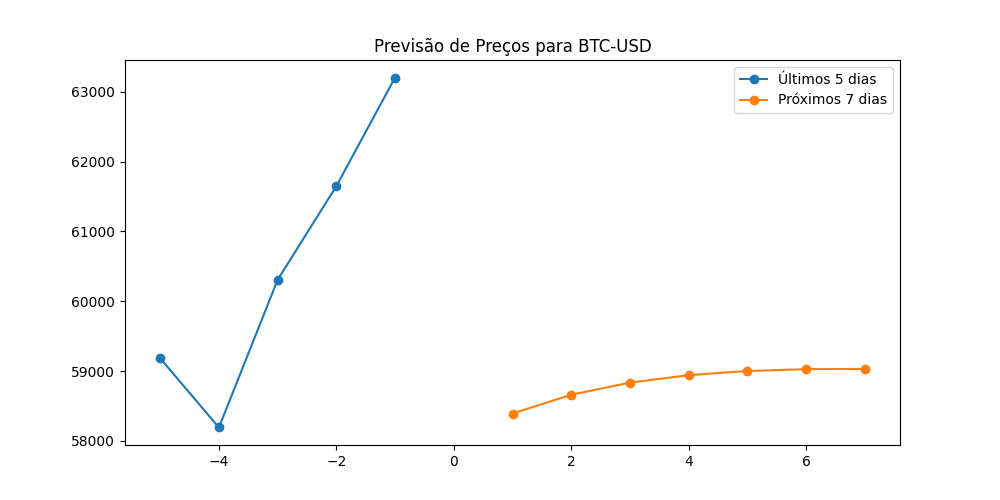
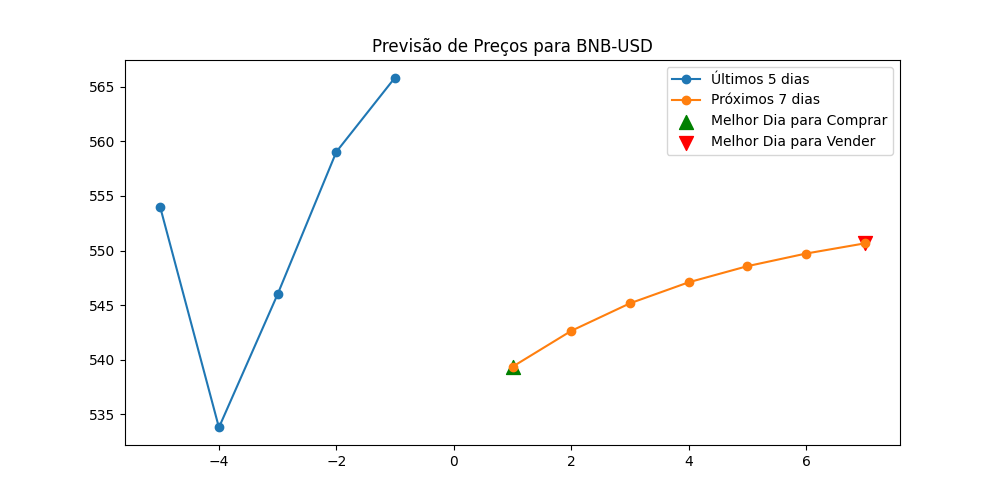
add marcadores no gráfico para mostrar quando se deve comprar e quando se deve vender

diff --git a/src/backend/main.py b/src/backend/main.py
@@ -29,12 +29,23 @@ async def post_predict(request: CryptoRequest):
     crypto = request.crypto
     future_predictions, real_last_5_days = predict_crypto(crypto)
 
+    # Encontrando o melhor dia para comprar e vender
+    best_day_buy = np.argmin(future_predictions) + 1  # Melhor dia para comprar (menor valor)
+    best_day_sell = np.argmax(future_predictions) + 1  # Melhor dia para vender (maior valor)
+
     # Plota o gráfico e salva na pasta estática do Next.js
     plt.figure(figsize=(10, 5))
-    days_real = np.arange(-5, 0)
-    days_future = np.arange(1, 8)
+    days_real = np.arange(-5, 0)  # Últimos 5 dias
+    days_future = np.arange(1, 8)  # Próximos 7 dias
+
     plt.plot(days_real, real_last_5_days, label='Últimos 5 dias', marker='o')
     plt.plot(days_future, future_predictions, label='Próximos 7 dias', marker='o')
+
+    # Destacar o melhor dia para comprar e vender
+    plt.scatter(best_day_buy, future_predictions[best_day_buy - 1], color='green', label='Melhor Dia para Comprar', marker='^', s=100)
+    plt.scatter(best_day_sell, future_predictions[best_day_sell - 1], color='red', label='Melhor Dia para Vender', marker='v', s=100)
+
+    # Configuração do gráfico
     plt.title(f'Previsão de Preços para {crypto}')
     plt.legend()
 
@@ -48,87 +59,3 @@ async def post_predict(request: CryptoRequest):
     predictions = [f"Dia {i+1}: Previsão de fechamento: {float(price):.2f}" for i, price in enumerate(future_predictions)]
 
     return {"imageUrl": "/prediction_plot.png", "predictions": predictions}
-
-
-
-
-
-# from fastapi import FastAPI, Request, Form
-# from fastapi.responses import HTMLResponse
-# from fastapi.templating import Jinja2Templates
-# import yfinance as yf
-# import matplotlib.pyplot as plt
-# import numpy as np
-# from model import predict_crypto
-# from fastapi.middleware.cors import CORSMiddleware
-
-# app = FastAPI()
-# # templates = Jinja2Templates(directory="../frontend/templates")
-
-# # Configuração de CORS
-# app.add_middleware(
-#     CORSMiddleware,
-#     allow_origins=["http://localhost:3000"],  # Domínio do Next.js
-#     allow_credentials=True,
-#     allow_methods=["*"],
-#     allow_headers=["*"],
-# )
-
-# # # Rota para a página inicial
-# # @app.get("/", response_class=HTMLResponse)
-# # async def get_home(request: Request):
-# #     return templates.TemplateResponse("index.html", {"request": request})
-
-# # # Rota para a página inicial
-# # @app.get("/", response_class=HTMLResponse)
-# # async def get_home(request: Request):
-# #     cryptos = ["BTC-USD", "ETH-USD", "BNB-USD"]  # Exemplos de criptoativos
-# #     return templates.TemplateResponse("index.html", {"request": request, "cryptos": cryptos})
-
-# @app.post("/predict")
-# async def post_predict(crypto: str):
-#     future_predictions, real_last_5_days = predict_crypto(crypto)
-
-#     # Plota o gráfico e salva na pasta estática do Next.js
-#     plt.figure(figsize=(10, 5))
-#     days_real = np.arange(-5, 0)
-#     days_future = np.arange(1, 8)
-#     plt.plot(days_real, real_last_5_days, label='Últimos 5 dias', marker='o')
-#     plt.plot(days_future, future_predictions, label='Próximos 7 dias', marker='o')
-#     plt.title(f'Previsão de Preços para {crypto}')
-#     plt.legend()
-#     image_path = "../nextjs-app/public/prediction_plot.png"
-#     plt.savefig(image_path)
-#     plt.close()
-
-#     # Formatar as previsões para exibir no frontend
-#     predictions = [f"Dia {i+1}: Previsão de fechamento: {price:.2f}" for i, price in enumerate(future_predictions)]
-
-#     return {"imageUrl": "/prediction_plot.png", "predictions": predictions}
-
-
-# # # Rota para a página inicial
-# # @app.post("/testes", response_class=HTMLResponse)
-# # async def post_testes(request: Request):
-# #     cryptos = ["BTC-USD", "ETH-USD", "BNB-USD", "USDT-USD", "USDC-USD"]  # Exemplos de criptoativos
-# #     return templates.TemplateResponse("testes.html", {"request": request, "cryptos": cryptos})
-
-# # # Rota para fazer previsões
-# # @app.post("/predict", response_class=HTMLResponse)
-# # async def post_predict(request: Request, crypto: str = Form(...)):
-# #     # Obtém as previsões usando a função predict_crypto
-# #     future_predictions, real_last_5_days = predict_crypto(crypto)
-
-# #     # Plota o gráfico
-# #     plt.figure(figsize=(10, 5))
-# #     days_real = np.arange(-5, 0)
-# #     days_future = np.arange(1, 8)
-# #     plt.plot(days_real, real_last_5_days, label='Últimos 5 dias', marker='o')
-# #     plt.plot(days_future, future_predictions, label='Próximos 7 dias', marker='o')
-# #     plt.title(f'Previsão de Preços para {crypto}')
-# #     plt.legend()
-# #     plt.savefig("../frontend/static/img/prediction_plot.png")
-# #     plt.close()
-
-# #     # Retorna o template com os dados e o gráfico
-# #     return templates.TemplateResponse("index.html", {"request": request, "cryptos": ["BTC-USD", "ETH-USD", "BNB-USD"], "image": "/home/inteli/Documentos/GitHub/Ponderada_Mod_7/src/frontend/static/img/prediction_plot.png"})
